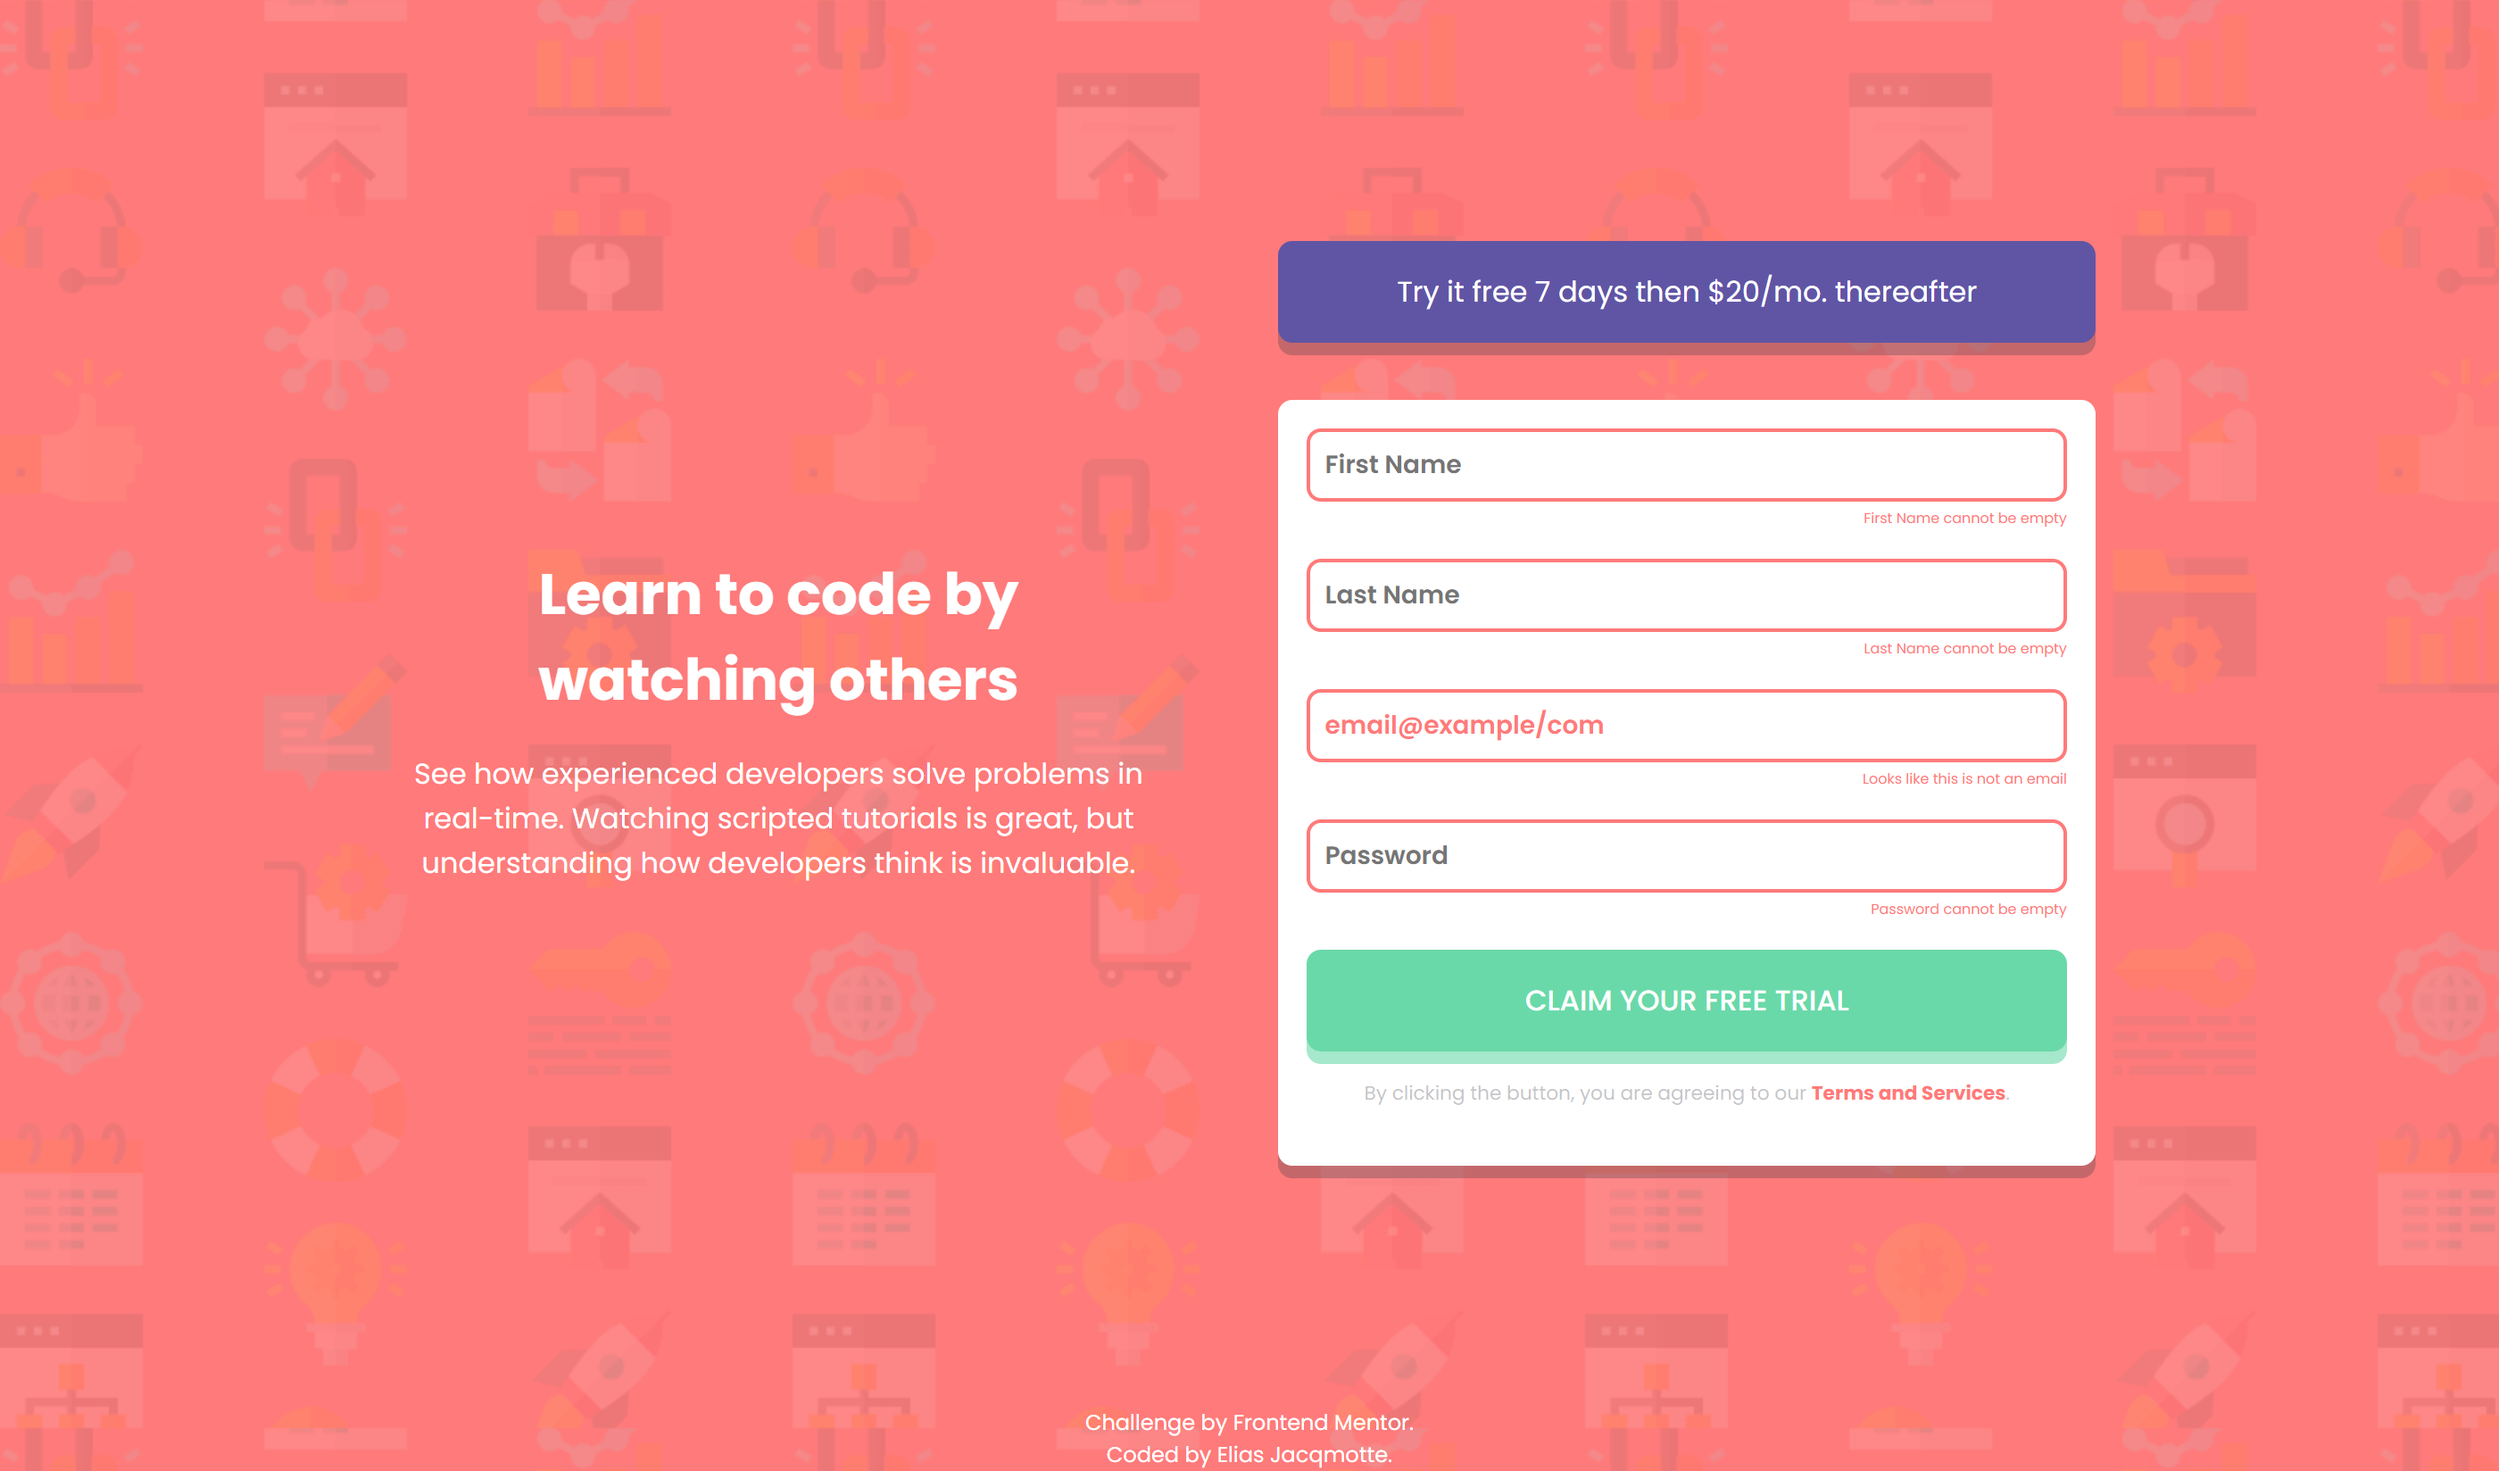
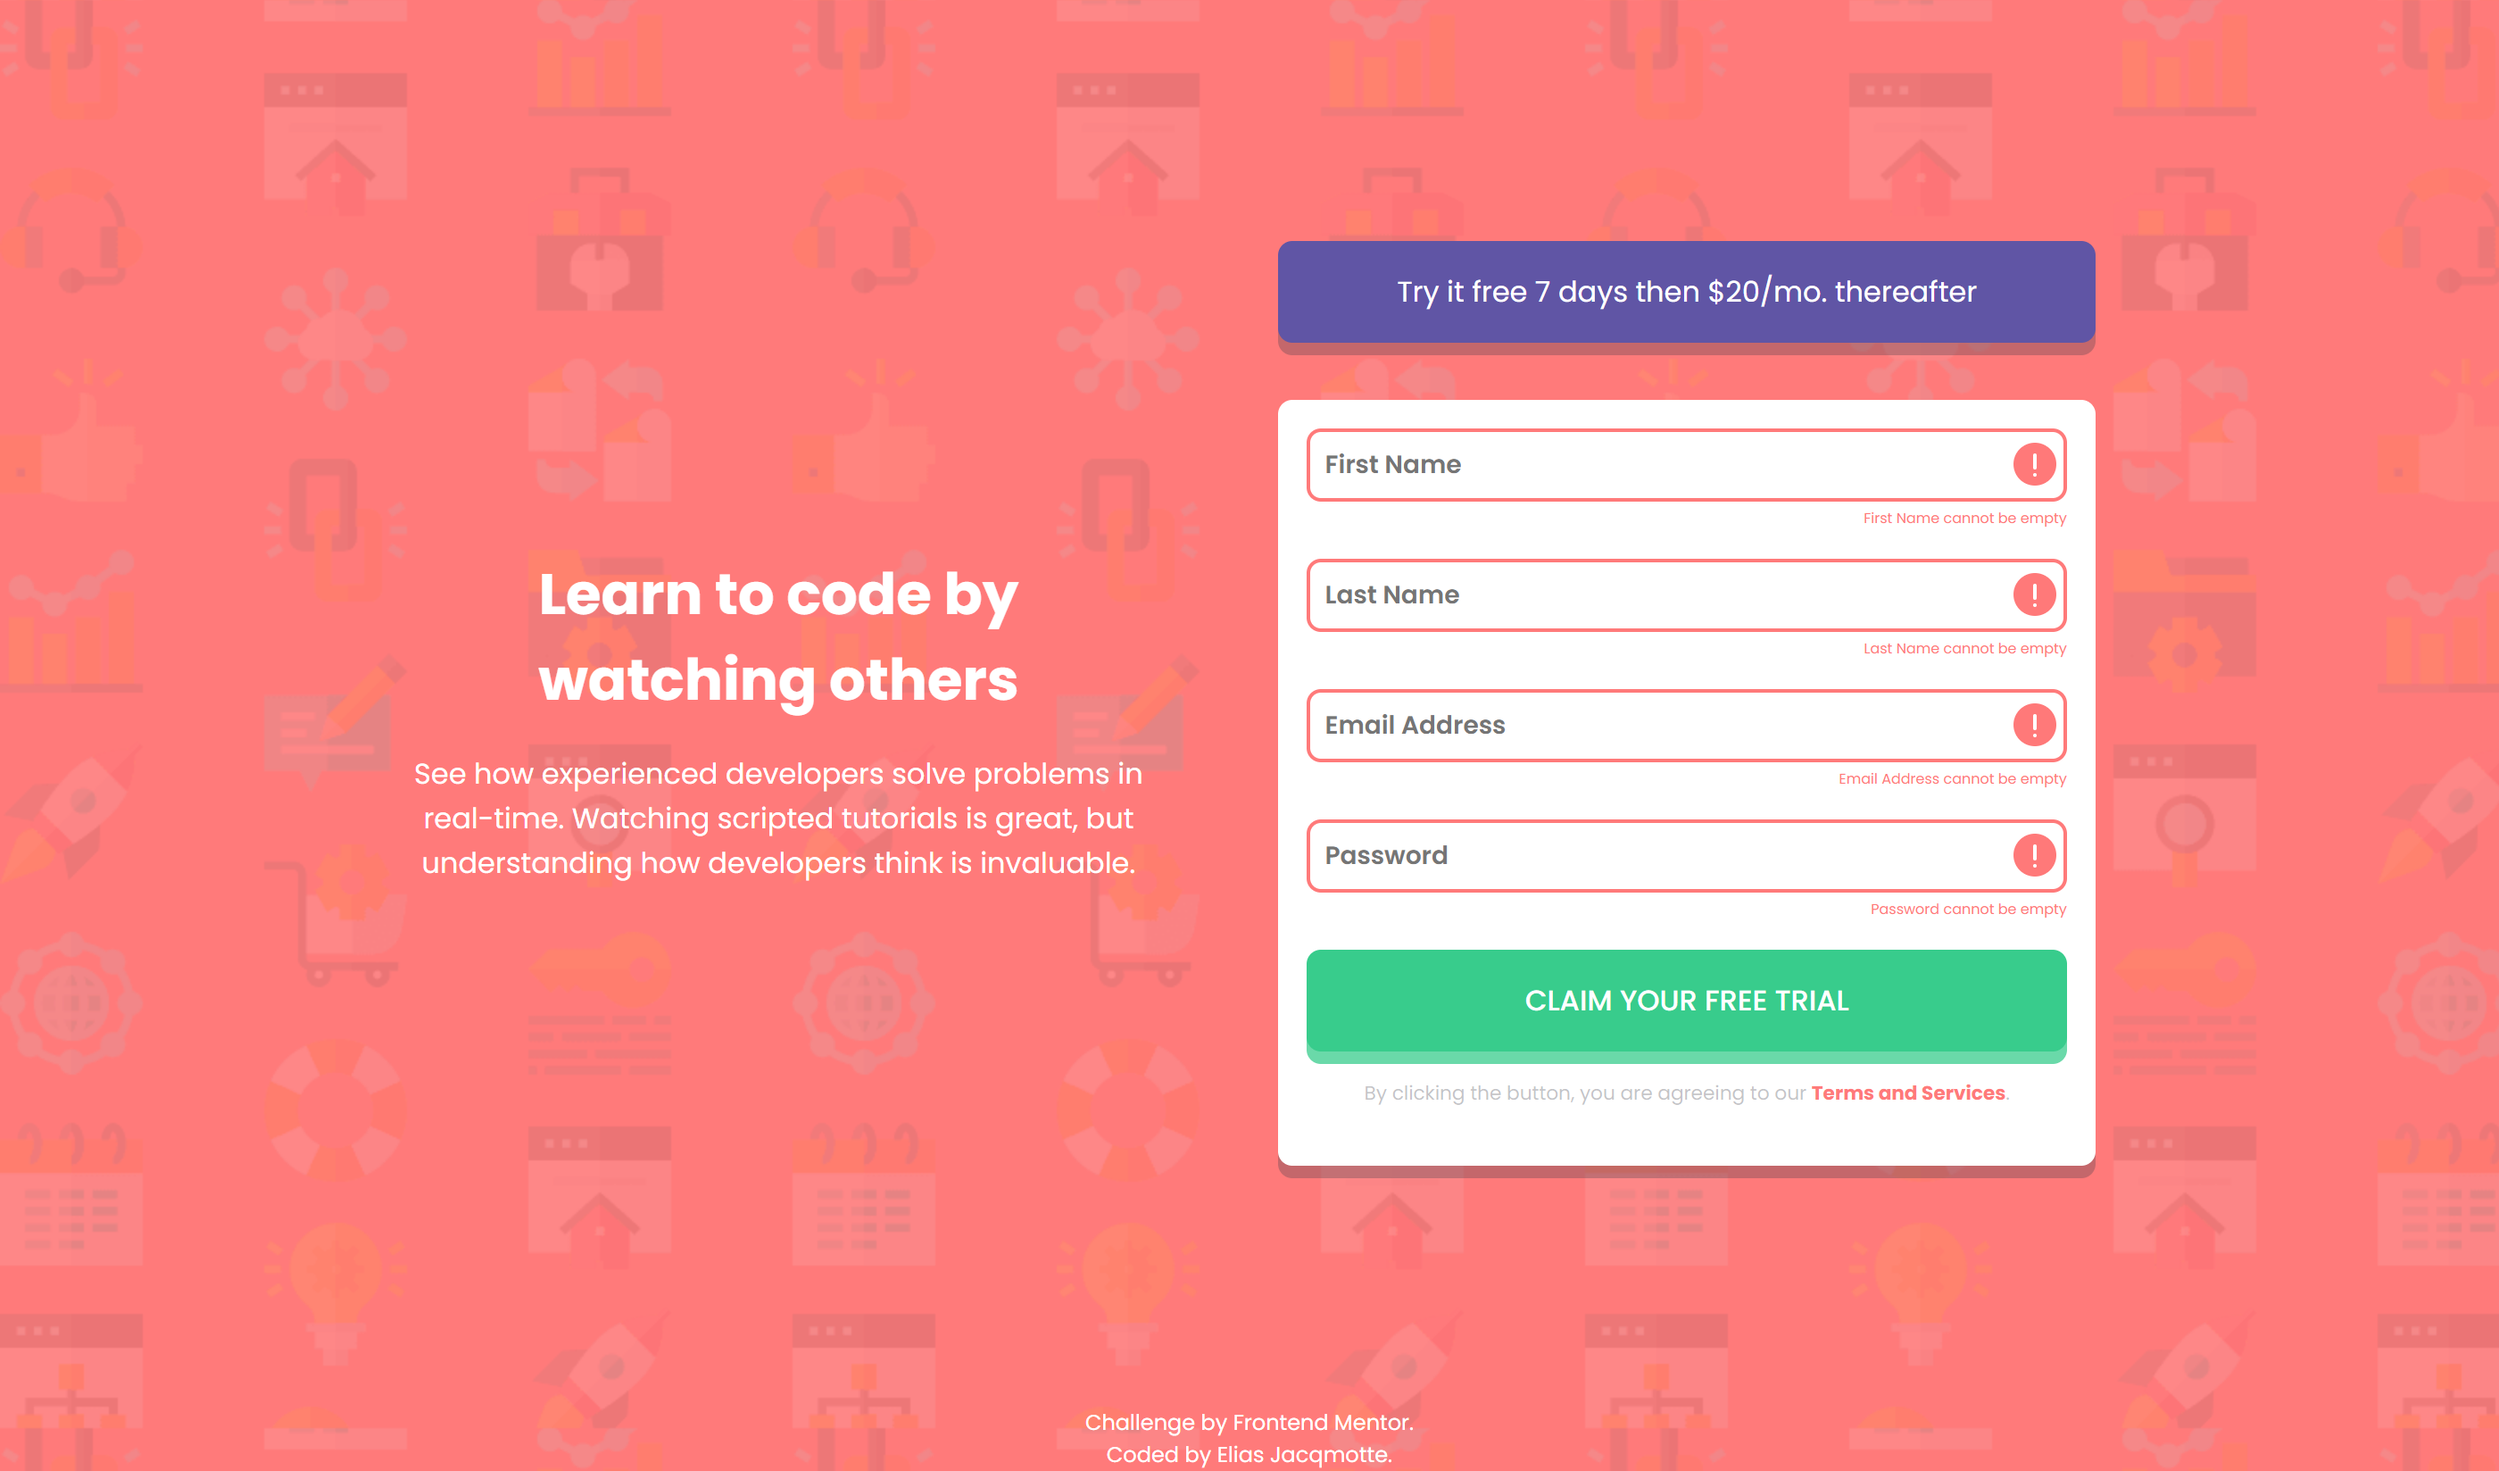
added exclamation points + updated website url

diff --git a/index.js b/index.js
@@ -14,6 +14,7 @@ submit.addEventListener('click', (event) => {
             element.style.borderWidth = '2px';
             element.nextElementSibling.nextElementSibling.style.display = "block";
             element.nextElementSibling.nextElementSibling.textContent = `${element.placeholder} cannot be empty`
+            element.parentElement.classList.add('problem');
 
             // if the element is email and has some characters in it: change the textcontent
             if ( element.name == "email" && element.value.length > 0 ) {
@@ -35,6 +36,7 @@ submit.addEventListener('click', (event) => {
             element.style.color = '';
             element.style.fontWeight = '';
             element.nextElementSibling.nextElementSibling.style.display = '';
+            element.parentElement.classList.remove('problem');
         }
     })
 })

diff --git a/style.css b/style.css
@@ -202,7 +202,21 @@ body {
 
 .container .user-form form input::placeholder {
     font-weight: var(--fw-600);
-    
+}
+
+.container .user-form form div {
+    position: relative;
+    display: inline-block;
+}
+
+.container .user-form form div.problem::after {
+    content: url(./images/icon-error.svg);
+    position: absolute;
+    right: 10px;
+    top: 18px;
+    transform: translateY(-50%);
+    width: 20px;
+    height: 20px;
 }
 
 .container .user-form button {

diff --git a/README.md b/README.md
@@ -42,7 +42,7 @@ Users should be able to:
 
 ### Links
 
-- Live Site URL: [Add live site URL here](https://your-live-site-url.com)
+- Live Site URL: [Github pages](https://elias-jacqmotte.github.io/intro-component-with-signup-form-vanilla/)
 
 ## My process
 
